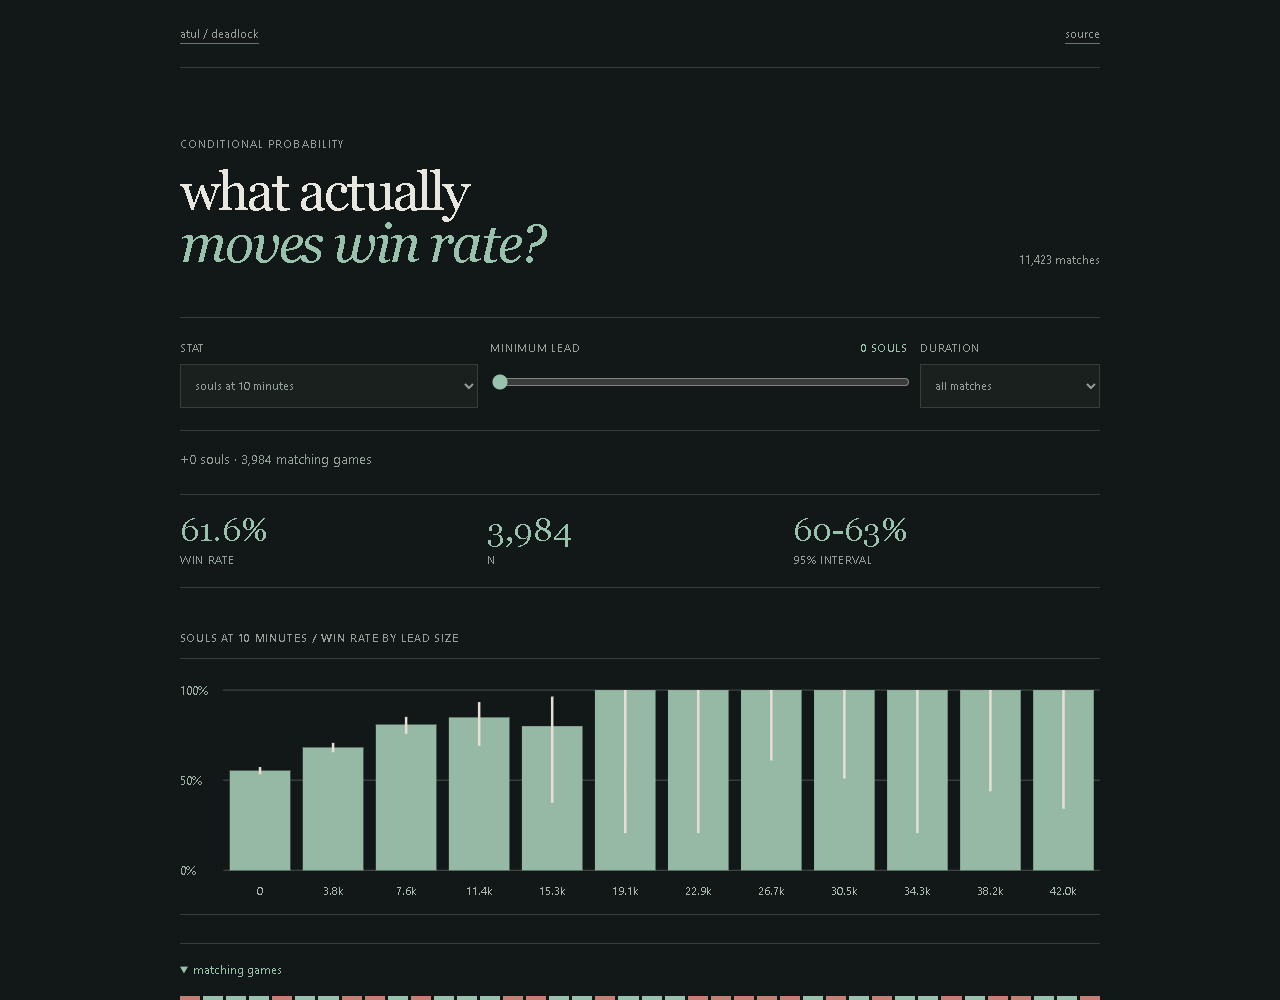
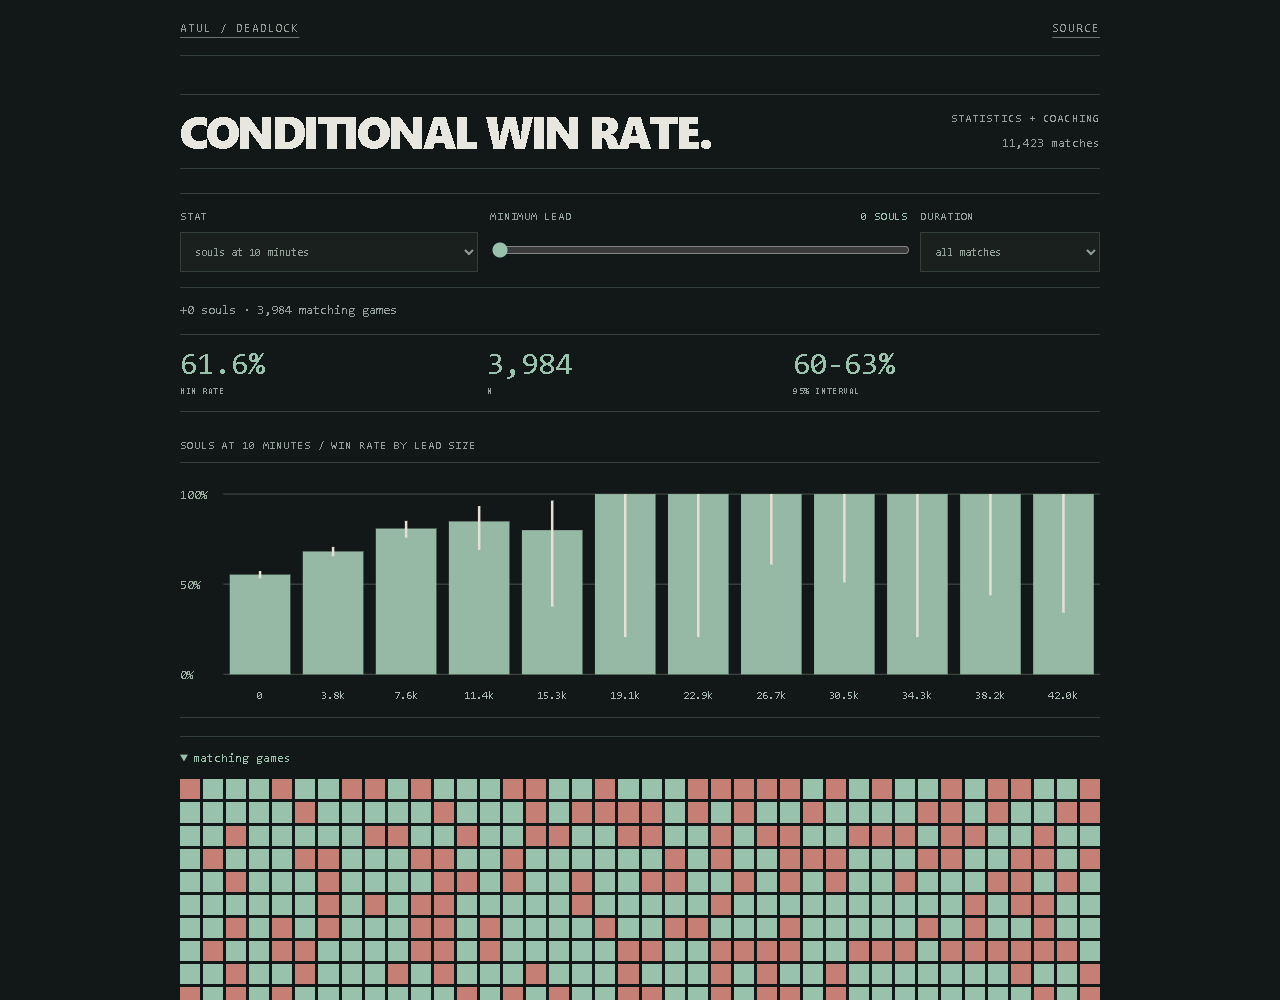
Give the analysis a compact telemetry layout

diff --git a/examples/portfolio/index.html b/examples/portfolio/index.html
@@ -1,7 +1,7 @@
-<!doctype html><html lang="en"><head><meta charset="utf-8"><meta name="viewport" content="width=device-width,initial-scale=1"><title>deadlock / conditional win rate</title><link rel="stylesheet" href="style.css"></head><body>
+<!doctype html><html lang="en"><head><meta charset="utf-8"><meta name="viewport" content="width=device-width,initial-scale=1"><title>deadlock / conditional win rate</title><link rel="stylesheet" href="style.css"><link rel="stylesheet" href="identity.css"></head><body>
 <header><a href="https://lolstar123.github.io/just-a-little-further/">atul / deadlock</a><a href="https://github.com/LolStar123/deadlock-match-analysis">source</a></header>
 <main>
-<section class="hero"><p>conditional probability</p><h1>what actually<br><em>moves win rate?</em></h1><span id="scope">loading matches…</span></section>
+<section class="hero"><p>statistics + coaching</p><h1>conditional win rate.</h1><span id="scope">loading matches…</span></section>
 <section class="controls"><label>stat<select id="metric"></select></label><label>minimum lead <strong id="lead-label"></strong><input id="threshold" type="range" min="0" max="20000" step="1000" value="0"></label><label>duration<select id="duration"><option value="0,120">all matches</option><option value="0,25">under 25m</option><option value="25,40">25–40m</option><option value="40,120">40m+</option></select></label></section>
 <p id="answer" class="answer" aria-live="polite"></p><p id="context" hidden></p>
 <section class="result"><div><strong id="win-rate">…</strong><span>win rate</span></div><div><strong id="sample">…</strong><span>n</span></div><div><strong id="interval">…</strong><span>95% interval</span></div></section>

diff --git a/examples/portfolio/identity.css b/examples/portfolio/identity.css
@@ -1,0 +1,2 @@
+/* match telemetry: numbers lead, decoration gets out of the way */
+body{font-family:ui-monospace,Consolas,"Segoe UI",monospace}header{height:56px;text-transform:uppercase;letter-spacing:.08em}main{padding:38px 0 46px}.hero{grid-template-columns:1fr 230px;margin-bottom:24px;padding:16px 0;border-block:1px solid var(--line)}.hero p{grid-column:2;grid-row:1;margin:0;align-self:start;text-align:right}.hero h1{grid-column:1;grid-row:1;font:800 45px/.9 "Segoe UI",Arial,sans-serif;letter-spacing:-.055em;text-transform:uppercase}.hero>span{grid-column:2;grid-row:1;align-self:end;text-align:right}.controls{padding-block:15px}.controls select{min-height:40px}.answer{margin:12px 0}.result{margin:14px 0 26px}.result div{padding:13px 0}.result strong{font-family:ui-monospace,Consolas,monospace;font-size:31px}.result span{font-size:9px}.chart h2{font-family:ui-monospace,Consolas,monospace}#chart{margin-top:7px}details{margin-top:18px;padding-bottom:12px}summary{padding:12px 0}@media(max-width:650px){main{padding:29px 0 38px}.hero{display:block}.hero p,.hero>span{text-align:left}.hero h1{margin:9px 0 13px;font-size:36px}.controls{grid-template-columns:1fr 1fr}.result strong{font-size:23px}}
